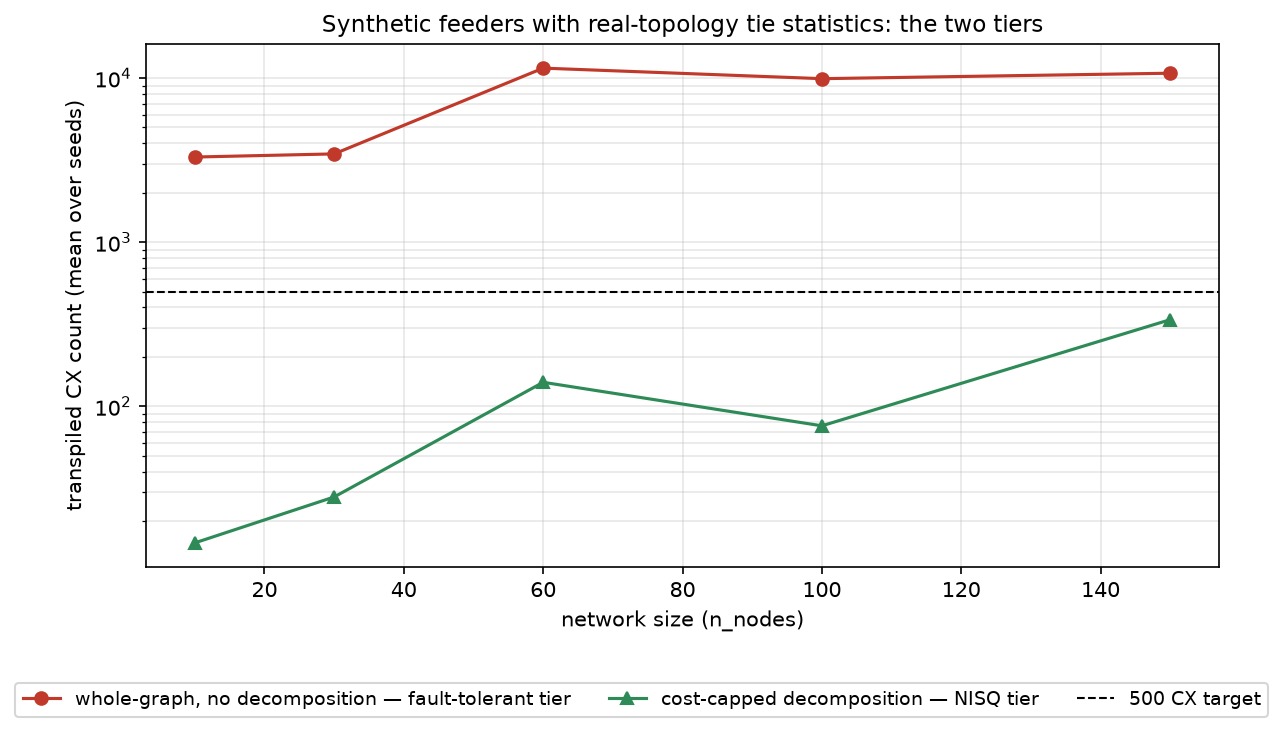
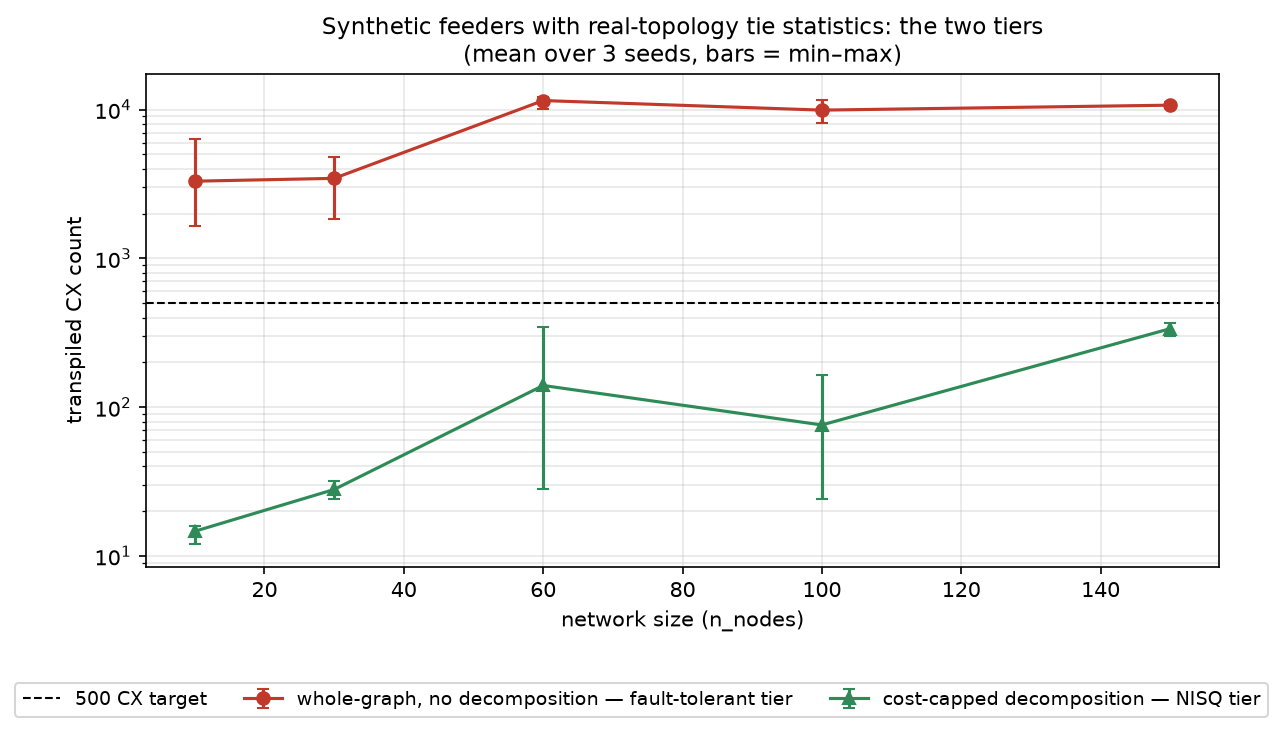
Disclose what an evaluator would challenge: Tier 2's search subset, its leaky zone mixers, and the easy DP
Tier 2 searches only trees connected inside every zone (a subset of
the feasible set) and its per-zone mixers are Tier 1 mixers -- leakage
is prevented in practice by small zones, not by construction. Both
were previously described as "exact". The 500-CX result is now stated
as the target the algorithm recurses toward; the finding is that it
got there without leaking or invoking its fallback.

The hard-instance section now says what its own cross-check implies:
the exact DP is a fast classical algorithm for these fixed-B instances
(milliseconds at every m), so what fails is a general-purpose solver
on the natural formulation, not every classical route. Title changed
to "provably hard family"; the large-B experiment that would change
this is named as the next step.

Qubit counts and depth added wherever a CX number appears; Tier 1's
unsafe rates disclosed (43% of trajectories on IEEE33) with the
sentence the README was avoiding -- there is no exact and complete
whole-graph construction on real topology. MPS cost growth compared to
circuit growth (~14x), not qubit growth. Three feeders named as three;
3 seeds shown as min-max bars on the headline figure; determinism
claim scoped to construction scripts.

diff --git a/scripts/plot_results_figures.py b/scripts/plot_results_figures.py
@@ -82,19 +82,37 @@ def plot_construction_progression() -> None:
     # it), not a claim about real feeders: real tie switches are
     # long-range by design (33-45% of network diameter), so the
     # README-facing figure shows only the condition that models them.
-    whole = _rows("fixed_alpha_ladder_summary.csv")
-    capped = _rows("cost_capped_decomposition_summary.csv")
+    # Per-seed rows, not the summary CSVs: the summaries carry mean/std or
+    # mean/max only, and an evaluator reading a means-only line has no way
+    # to see that decomposed variants reach 99% coefficient of variation
+    # at some sizes (docs/scaling-ladder-and-decomposition.md §11). Min-max
+    # bars over the 3 seeds make the spread visible on the headline figure.
+    whole = _rows("fixed_alpha_ladder_results.csv")
+    capped = _rows("cost_capped_decomposition_results.csv")
+
+    def seed_stats(rows, cx_col):
+        by_n: dict[int, list[float]] = {}
+        for r in rows:
+            if r["condition"] == "long_log":
+                by_n.setdefault(int(r["n_nodes"]), []).append(float(r[cx_col]))
+        xs = sorted(by_n)
+        means = [sum(by_n[x]) / len(by_n[x]) for x in xs]
+        lo = [m - min(by_n[x]) for m, x in zip(means, xs)]
+        hi = [max(by_n[x]) - m for m, x in zip(means, xs)]
+        return xs, means, [lo, hi]
 
     fig, ax = plt.subplots(figsize=(8, 4.8))
-    xs_w, ys_w = _series(whole, "condition", "long_log", "n_nodes", "cx_mean")
-    xs_c, ys_c = _series(capped, "condition", "long_log", "n_nodes", "cx_mean")
-    ax.plot(xs_w, ys_w, marker="o", color="#C0392B", label="whole-graph, no decomposition — fault-tolerant tier")
-    ax.plot(xs_c, ys_c, marker="^", color="#2E8B57", label="cost-capped decomposition — NISQ tier")
+    xs_w, ys_w, err_w = seed_stats(whole, "cx_count")
+    xs_c, ys_c, err_c = seed_stats(capped, "total_cx")
+    ax.errorbar(xs_w, ys_w, yerr=err_w, marker="o", capsize=3, color="#C0392B",
+                label="whole-graph, no decomposition — fault-tolerant tier")
+    ax.errorbar(xs_c, ys_c, yerr=err_c, marker="^", capsize=3, color="#2E8B57",
+                label="cost-capped decomposition — NISQ tier")
     ax.axhline(CX_THRESHOLD, color="black", ls="dashed", lw=1, label=f"{CX_THRESHOLD} CX target")
     ax.set_yscale("log")
     ax.set_xlabel("network size (n_nodes)")
-    ax.set_ylabel("transpiled CX count (mean over seeds)")
-    ax.set_title("Synthetic feeders with real-topology tie statistics: the two tiers", fontsize=11)
+    ax.set_ylabel("transpiled CX count")
+    ax.set_title("Synthetic feeders with real-topology tie statistics: the two tiers\n(mean over 3 seeds, bars = min–max)", fontsize=11)
     ax.grid(True, alpha=0.3, which="both")
     # Legend below the axes: every inside corner is occupied by one of
     # the two curves (red rises top-left, plateaus top-right; green

diff --git a/README.md b/README.md
@@ -1,4 +1,4 @@
-# A feasibility-preserving QAOA mixer for grid reconfiguration — and a provably hard instance of the same problem
+# A feasibility-preserving QAOA mixer for grid reconfiguration — and a provably hard family of the same problem
 
 ## Two questions, one problem
 
@@ -19,13 +19,15 @@ connected, no loops — as switches open and close. And it asks two
 questions about it, in order:
 
 1. **Can the mixer be made cheap enough for real hardware?** Yes — at
-   two tiers, one for fault-tolerant machines and one that fits today's
-   noisy devices, validated on real published grids.
+   two tiers, one for fault-tolerant machines and one that meets a
+   500-CX budget on every instance tested, validated on real published
+   grids.
 2. **Is this problem actually hard enough to need quantum?** For real
    grids, honestly, no — a classical solver walks them. But there is a
-   provably hard instance of the *same* problem, and this repo builds
-   it, measures a real solver giving up on it, and shows the circuit
-   for it is small.
+   provably hard *family* of the same problem. This repo builds
+   instances from it, measures a general-purpose solver giving up on
+   them, and shows the circuit for them is small — with one caveat,
+   stated where it arises, that sets up the next experiment.
 
 The second question is the one most quantum-optimization work skips.
 
@@ -80,12 +82,21 @@ gives a complete, fully connected mixer at a cost fault-tolerant
 hardware can absorb.
 
 **Tier 2 — zones, for today's hardware.** Cut the network into small
-zones along its tie lines, build a cheap exact mixer for each zone, and
+zones along its tie lines, build a Tier 1 mixer inside each zone, and
 stitch them together with one small mixer over the contracted "zone
-graph." The mathematics of spanning trees makes this decomposition
-**exact** — nothing leaks. Then enforce a cost budget directly:
-transpile each piece, check its real gate count, and split or retune
-any piece that comes in over the line.
+graph." The mathematics of spanning trees guarantees the stitched
+result is a valid tree, so the decomposition itself cannot leak. Then
+enforce a cost budget: transpile each piece, check its real gate count,
+and split or retune any piece that comes in over the line.
+
+Two honest limits. Tier 2 searches only trees that stay connected
+*inside* every zone — a subset of all feasible configurations, so an
+optimum that doesn't respect the zone boundaries is out of reach. And
+leakage inside a zone is prevented in practice by keeping zones small,
+not by construction. The 500-CX budget is a target the algorithm
+recurses toward; the finding is that on every instance tested it got
+there without leaking and without ever invoking its cost-for-safety
+fallback.
 
 ![A graph partitioned into zones, plus the contracted assembly problem](results/illustration_decomposition.png)
 
@@ -117,22 +128,27 @@ that actually drive cost. So the ladder answers *does it scale?*, the
 real feeders answer *does it transfer?*, and each is convincing only
 because of the other.
 
-**The synthetic ladder** runs from 10 to 150 nodes, matched to real
-feeders in the two ways that matter: every tie is long-range, and the
-number of ties grows only logarithmically with network size. That
-second fact comes from real data: across real and benchmark feeders
-from 15 to 179 buses, the ratio of ties to buses falls about 6×, which
-is what logarithmic growth looks like. Larger real grids
+**The synthetic ladder** runs from 10 to 150 nodes, three random
+feeders per size, matched to real feeders in the two ways that matter:
+every tie is long-range, and the number of ties grows only
+logarithmically with network size. That second fact comes from real
+data — thin data, three published feeders being all that exist at this
+scope, but consistent: from 15 to 179 buses the ratio of ties to buses
+falls about 6×, which is what logarithmic growth looks like. Larger real grids
 don't get proportionally more redundancy, just a little more.
 
-![Synthetic feeders with real-topology tie statistics: the two tiers](results/construction_progression_plot.png)
+![Synthetic feeders with real-topology tie statistics: the two tiers (mean over 3 seeds, bars = min–max)](results/construction_progression_plot.png)
 
-At the largest size (150 nodes), Tier 1 costs 10,712 CX and Tier 2
-costs **337 CX**. Cost alone isn't the whole question, though: Tier 1
-gets its cost down by capping conditions, so it has to be asked how
-much exactness the cap gave up. The answer is leakage of up to 9%. Tier 2,
-asked the same question, gave up nothing — it never leaks, at any size.
-Cheaper *and* exact, not a tradeoff.
+At the largest size (150 nodes, 156 qubits), Tier 1 costs 10,712 CX at
+depth ~18,600; Tier 2 costs 337 CX at depth ~650. That is under the
+500-CX line, but by the yardstick above it is viable on trapped-ion
+hardware and marginal on superconducting. Cost alone isn't the whole
+question, though: Tier 1 gets its cost down by capping conditions, so
+it has to be asked how much exactness the cap gave up. The answer is
+mean leakage of up to 9%, with roughly a third of starting
+configurations leaking at all. Tier 2, asked the same question, gave up
+nothing on any instance tested. Cheaper *and* exact in practice, not a
+tradeoff.
 
 **The real feeders** are the transfer test: topology nobody designed to
 be convenient. Both tiers were built on the CIGRE MV benchmark (15
@@ -144,9 +160,14 @@ random seeds each:
 ![Where each real network's two tiers land relative to NISQ feasibility](results/real_nisq_feasibility_plot.png)
 
 Tier 2 lands comfortably inside today's hardware budget on both
-networks, and its number is identical across every seed — predictable,
+networks — 64 CX at depth 147 on 17 qubits, 132 CX at depth 272 on 37
+qubits — and its number is identical across every seed: predictable,
 not just cheap. Tier 1 stays complete and fully connected on both, at a
-cost only fault-tolerant hardware could absorb.
+cost only fault-tolerant hardware could absorb. But fault tolerance
+removes gate error, not leakage, and Tier 1's leakage is permanent: on
+IEEE33, 43% of starting configurations leak. There is, in other words,
+no exact *and* complete whole-graph construction that works on real
+topology — the exact one comes out disconnected, and Tier 1 leaks.
 
 The full account — including the intermediate constructions, the
 short-range control condition, and the safety measurements not shown
@@ -180,7 +201,14 @@ different objection:
   *prove* the tree is optimal. CP-SAT's proof time grows from a few
   seconds on a 65-node instance to a 30-minute timeout, proof
   unfinished, at 177 nodes. Every point is cross-checked against an
-  independent exact calculation.
+  independent exact calculation — and that calculation is the caveat.
+  It is a dynamic program that exploits the very structure the
+  hardness proof exposes, and at the fixed bucket size used here it
+  runs in milliseconds. So what fails is a general-purpose solver on
+  the natural formulation, not every classical route. Genuine hardness
+  needs the bucket size to grow with the instance — which inflates
+  every classical route but leaves the quantum circuit's size untouched.
+  That is the next experiment.
 - **"Then the quantum circuit must be enormous."** Tier 1 and Tier 2
   can't even be started on this instance: both begin by enumerating the
   feasible set, and here that set is astronomically large — which is
@@ -196,15 +224,19 @@ different objection:
   tensor-network (MPS) methods are the strongest classical tool for
   circuits like this one. MPS misses the exact answer by about 8% on
   the smallest instance it can be checked against, and its cost grows
-  roughly 70× over a range where the qubit count grows only 6×.
+  roughly 70× over a range where the circuit itself grows about 14× —
+  the excess is entanglement, not size. This was one simulator at
+  modest bond dimension, though; a stronger tensor-network attempt is
+  the obvious next test.
 
 Notice what just happened: the hard instance needed a *simpler* mixer
 than the real grids did. That is not a contradiction — it is the key to
 how the two halves of this repo fit together. Real grids are
 *structurally* hard to stay feasible on — long loops, expensive
 conditions — but *combinatorially* easy to solve. The
-hard instance is the mirror image: structurally trivial, combinatorially
-brutal. Each construction handles the axis its problem actually has.
+hard family is the mirror image: structurally trivial, combinatorially
+hard in general. Each construction handles the axis its problem
+actually has.
 Whether an instance exists that is hard on both axes at once is an open
 question this repo does not answer.
 
@@ -218,10 +250,12 @@ classical one: there is no objective, no QAOA run, and no test of the
 boundary-coupling loop a real decomposed optimization would need.
 
 Question 2 adds an objective, a real solver comparison, and a
-simulation comparison — but on a purpose-built instance, and it stops
-short of demonstrating advantage. Solution quality at the genuinely
-hard sizes is unmeasured, because both classical ways of checking it
-hit walls first. The case study says so, with numbers.
+simulation comparison — but on purpose-built instances that a
+structure-aware classical algorithm still solves quickly at the bucket
+size used, and it stops short of demonstrating advantage. Solution
+quality at the genuinely hard sizes is unmeasured, because both
+classical ways of checking it hit walls first. The case study says so,
+with numbers.
 
 Nothing broader is claimed for either. This is a measurement study,
 not a production mixer-compilation library; `methodology.md` has the
@@ -263,10 +297,11 @@ python scripts/run_hardness_sweep.py       # CP-SAT hardness curve (slow: hours)
 python scripts/run_mps_scaling_check.py    # the MPS comparison (~15 min)
 ```
 
-All scripts are deterministic (fixed seeds); re-running reproduces the
-committed `results/` files, modulo solver and library version
-differences. Further investigations use the scripts indexed in
-`docs/repository-map.md`.
+The circuit-construction scripts are deterministic (fixed seeds) and
+reproduce the committed `results/` files, modulo library versions. The
+CP-SAT sweep runs 8 parallel workers and its *timings* vary run to run
+by up to ~2×; its objective values do not. Further investigations use
+the scripts indexed in `docs/repository-map.md`.
 
 ## Repository layout
 

diff --git a/docs/hard-instance-case-study.md b/docs/hard-instance-case-study.md
@@ -32,6 +32,8 @@ for spanning tree T, where `successors(e)` counts the nodes in the subtree hangi
 
 Raw results: `results/hard_instance_hardness_sweep.csv`.
 
+**The caveat that the cross-check exposes, stated up front rather than after the table.** The exact DP is not just a verifier — it is a fast classical algorithm for these instances. It memoizes on the sorted tuple of partial bucket sums, so its state count is bounded by the number of distinct sum-multisets, and with items drawn from {4,5,6,7} at fixed B=15 those collide massively: it runs in milliseconds at every m in the table. Strong NP-hardness of 3-PARTITION requires the bucket size B to grow with m; at fixed B the problem is pseudo-polynomial, and every instance below is one a structure-aware classical solver handles instantly. What the table measures is therefore a general-purpose solver failing on the *natural graph formulation* — real and useful (it is what a practitioner would reach for first), but not evidence that no classical route exists. The route to genuine hardness is large B: it inflates the DP (state count grows with the number of distinct reachable sums) and the MILP (O(mB) leaf nodes), while the QAOA circuit stays at 3m² qubits regardless of B. That experiment is scoped, not yet run.
+
 | m | nodes | edges | YES proof time | NO proof time |
 |---|---|---|---|---|
 | 4 | 65 | 100 | 1.3s | 8.2s |
@@ -102,6 +104,7 @@ Two findings, both real and not manufactured to fit a narrative:
 
 ## Honest scope of this document
 
+- **These specific instances are not classically hard.** See the caveat at the top of Part 1: at fixed B=15 the repo's own DP solves every one of them in milliseconds. What is demonstrated is that a general-purpose solver on the natural formulation fails at small size, and that the circuit construction works there. Instance-level hardness against *every* classical route needs B to grow with m, which is the scoped next experiment.
 - **This is not a demonstrated quantum advantage.** The circuit is shown to be small and to compile/transpile cheaply at the size where classical proof cost is already climbing steeply — a *necessary* condition for a quantum approach to be worth pursuing here, not a sufficient one. The approximation ratio (expected cost vs. `PartitionGadget.exact_optimum`) is now measured exactly at m=2 and m=3 (Part 3's table, statevector column) at a fixed representative angle (0.37 half-turns, this repo's existing convention for "a concrete, reproducible value," not a claimed optimum) — ratios of 1.27 and 1.49 respectively. Beyond m=3, exact simulation is impossible (m=4 alone needs 48 qubits, 4.3 exabytes) and MPS was shown in Part 3 to not reliably substitute for it. So the honest status is: verified at trivial scale, genuinely unknown at the scale where classical hardness actually bites (m=9-11), and that gap is not for lack of trying — it survived both an exact-simulation attempt and a tensor-network attempt.
 - **This is a different mixer from `mixer.py`'s**, not a generalization of it. It works because this specific reduction happens to decompose into independent one-hot subproblems; that is a property of this instance family, discovered by reading the hardness proof's own structure, not a general recipe that would apply to an arbitrary hard matroid-basis problem.
 - **The two negative attempts** (random quadratic cost, congestion cost) are reported here because they were real, informative dead ends — not polished away — and directly motivate why a structural construction was needed instead of a bigger real network.
